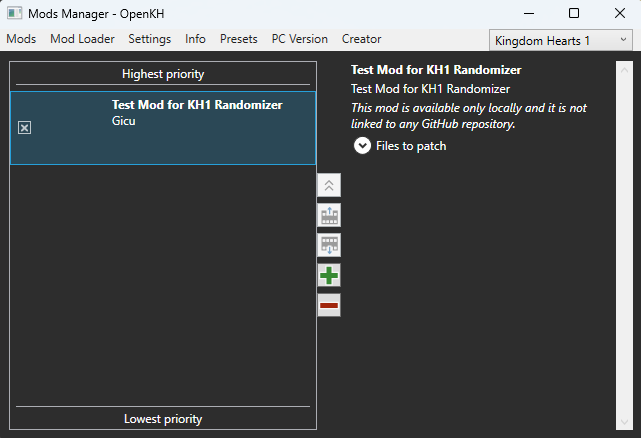
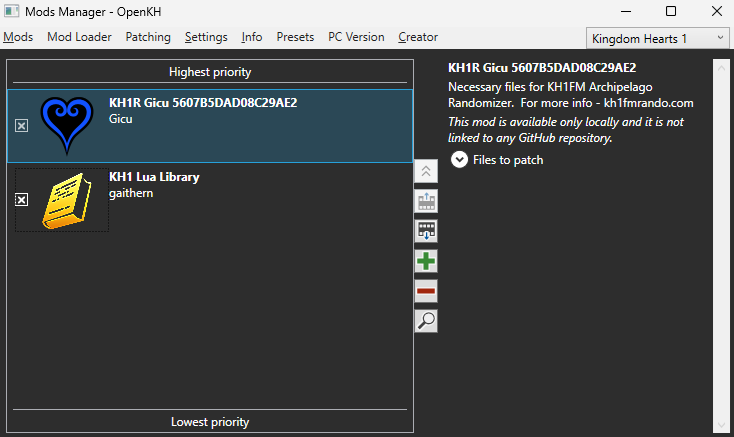
Added new instructions for mod set up and multiworld connection

diff --git a/multiworld_guide.html b/multiworld_guide.html
@@ -84,11 +84,15 @@
                 <p><img src="./images/create_new_room.png" border="1"></p>
                 <li>You should be redirected to a new room page.  This will contain a link to download the patch file for the KH1 players, all the information they need to connect, and all the files/info for other players</li>
                 <p><img src="./images/new_room.png" border="1"></p>
-                
-                <h2>Connecting to the multiworld server</h2>
+
+                <h2>Installing your slot's mod</h2>
                 <li>KH1 players should begin by downloading their patch file.  This is either provided by their host, or they may click the "Download Patch File..." link associated with their slot in their game.</li>
                 <li>Using that downloaded patch file, generate your mod for OpenKH using the same instructions as the <a href="generating_the_mod.html">"Generating the mod"</a> step in the <a href="setup_guide.html">Setup Guide</a></li>
                 <li>Install your mod using the same instructions as the <a href="install_the_mod.html">"Installing the mod"</a> step in the <a href="setup_guide.html">Setup Guide</a></li>
+
+                <h2>Connecting to the multiworld server (Option 1 File Client)</h2>
+                <li>In OpenKH, ensure you have "gaithern/KH1-FILE-CLIENT" installed</li>
+                <p><img src="./images/kh1_file_client.png" border="1"></p>
                 <li>Open your Archipelago Launcher, which can be found in your start menu or by navigating back to your Archipelago installation folder</li>
                 <p><img src="./images/archipelago_launcher.png" border="1"></p>
                 <li>In your Archipelago Launcher, search KH1.  Click "Open".</li>
@@ -99,7 +103,17 @@
                 <p><img src="./images/type_slot_name.png" border="1"></p>
                 <li>You should be greeted with the following messages.  You should now be able to open your modded KH1 game via OpenKH and play!</li>
                 <p><img src="./images/connected.png" border="1"></p>
-                
+
+                <h2>Connecting to the multiworld server (Option 2 DLL Client)</h2>
+                <li>In OpenKH, ensure you have "gaithern/KH1-DLL-CLIENT" installed</li>
+                <p><img src="./images/kh1_dll_client.png" border="1"></p>
+                <li>Once in game, press F4 to open the connection dialog window.</li>
+                <p><img src="./images/connection_dialog_window.png" border="1"></p>
+                <li>Type in the server/port associated with your hosted game and click "Connect"</li>
+                <p><img src="./images/connection_info_input.png" border="1"></p>
+                <li>If connection was successful, you should see a confirmation message in game.</li>
+                <p><img src="./images/confirmation_message.png" border="1"></p>
+
                 <h3>Having trouble getting set up?  Feel free to join the <a href="discord_links.html">KH1 AP Discord</a> and reach out for help.</h3>
             </p>
         </div>

diff --git a/installing_the_mod.html b/installing_the_mod.html
@@ -76,17 +76,23 @@
             <p><img src="./images/kh1_dropdown.png"></p>
             <li>Click the green plus icon to install a new mod.</li>
             <p><img src="./images/install_a_new_mod.png"></p>
+            <li>First, enter "gaithern/KH1-LUA-LIBRARY" in the field labelled "Install a new mod from GitHub" and click "Install".</li>
+            <p><img src="./images/install_kh1_lua_library.png"></p>
+            <li>You should see the following mod appear:</li>
+            <p><img src="./images/kh1_lua_library_installed.png"></p>
+            <li>Click the green plus icon again to install another mod.</li>
+            <p><img src="./images/install_another_mod.png"></p>
             <li>Choose "Select and install Mod Archive or Lua Script".</li>
             <p><img src="./images/select_or_install_a_new_mod_or_lua_script.png"></p>
             <li>Navigate to your mod zip created in the "Generating your Mod Zip" step and select it.</li>
             <p><img src="./images/mod_zip.png"></p>
             <li>Find your new mod in your mod list.</li>
             <p><img src="./images/mod_unchecked.png"></p>
-            <li>Click the box near the mod name to enable the mod.</li>
+            <li>Click the boxes near the mod names to enable each mod.</li>
             <p><img src="./images/mod_checked.png"></p>
             <li>When ready to play, go to "Mod Loader" at the top pane and choose "Build and Run".</li>
             <p><img src="./images/build_and_run.png"></p>
-            <li>KH1 should open with the newly installed mod.</li>
+            <li>KH1 should open with the newly installed mods.</li>
         </p>
     </div> </body>
 </html>